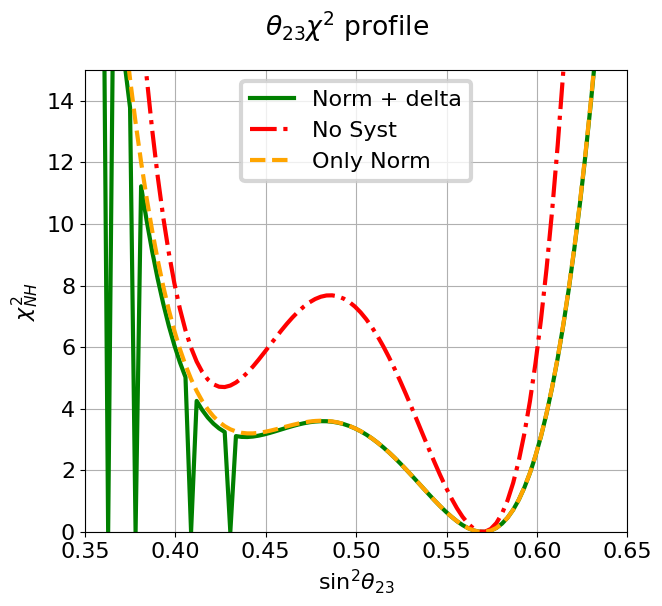
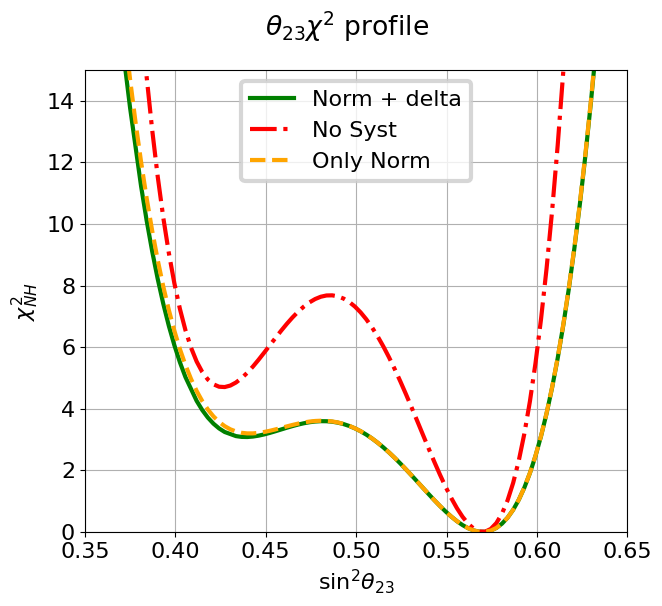
update

Changed region(s): [[0.1511, 0.1188, 0.2417, 0.8911], [0.2719, 0.6238, 0.3021, 0.8911], [0.3323, 0.7129, 0.3625, 0.8911]]

diff --git a/sources/systematics/plotting.py b/sources/systematics/plotting.py
@@ -29,7 +29,7 @@ def plot_contour(savename = "chi_sq_contour"):
 def plot_profile(var, savename = "profile"):
 	fig2, ax2 = plt.subplots(figsize=(7,6))
 	if var == 0: #theta
-		profile = util.read_output()[0]
+		norm_delta = util.read_output(dir_name = "./1120_theta_norm+delta_min/")[0]
 		x = np.sin(t23l) ** 2
 		only_norm = util.read_output(dir_name = "1109_theta_profile_norm_min")[0]
 		no_syst = util.read_output(dir_name = "../NoSystematics/1109_no_sys_the_profile")[0]
@@ -46,12 +46,12 @@ def plot_profile(var, savename = "profile"):
 		ax2.set_xlabel(r"$\Delta m_{31}^2$")
 		ax2.set_xlim([0.0024, 0.0026])
 		ax2.set_ylim([0, 15])
-	y = profile
+	y_norm_delta, x_norm_delta = util.process(norm_delta, x)
 	y_no_sys = no_syst
 	y_only_norm = only_norm
 	
 	ax2.set_ylabel(r"$\chi^2_{NH}$")
-	ax2.plot(x, y, color ="green", label = "Norm + delta")
+	ax2.plot(x_norm_delta, y_norm_delta, color ="green", label = "Norm + delta")
 	ax2.plot(x, y_no_sys, '-.', color ="red", label = "No Syst")
 	ax2.plot(x, y_only_norm, '--', color ="orange", label = "Only Norm")
 	ax2.grid(True)

diff --git a/sources/systematics/util.py b/sources/systematics/util.py
@@ -45,3 +45,12 @@ def read_output(dir_name = dir_name):
                     continue
     # print(res)
     return res 
+
+def process(chils, thels):
+    processed_chi = []
+    processed_the = []
+    for i in range(len(chils)):
+        if chils[i] - 0 > 0.01 or i >= len(chils) / 2:
+            processed_chi.append(chils[i])
+            processed_the.append(thels[i])
+    return processed_chi, processed_the

diff --git a/sources/systematics/run.py b/sources/systematics/run.py
@@ -29,8 +29,8 @@ print("begin the min_chisq")
 
 chisqval = chi.min_chisq(rate_weight, truth0, 0) + chi.min_chisq(rate_weight, truth1, 1)
 
-print("the final chi square is: ", chisqval)
-exit(0)
+# print("the final chi square is: ", chisqval)
+# exit(0)
 
 saveres = np.array([idx, chisqval])
 
